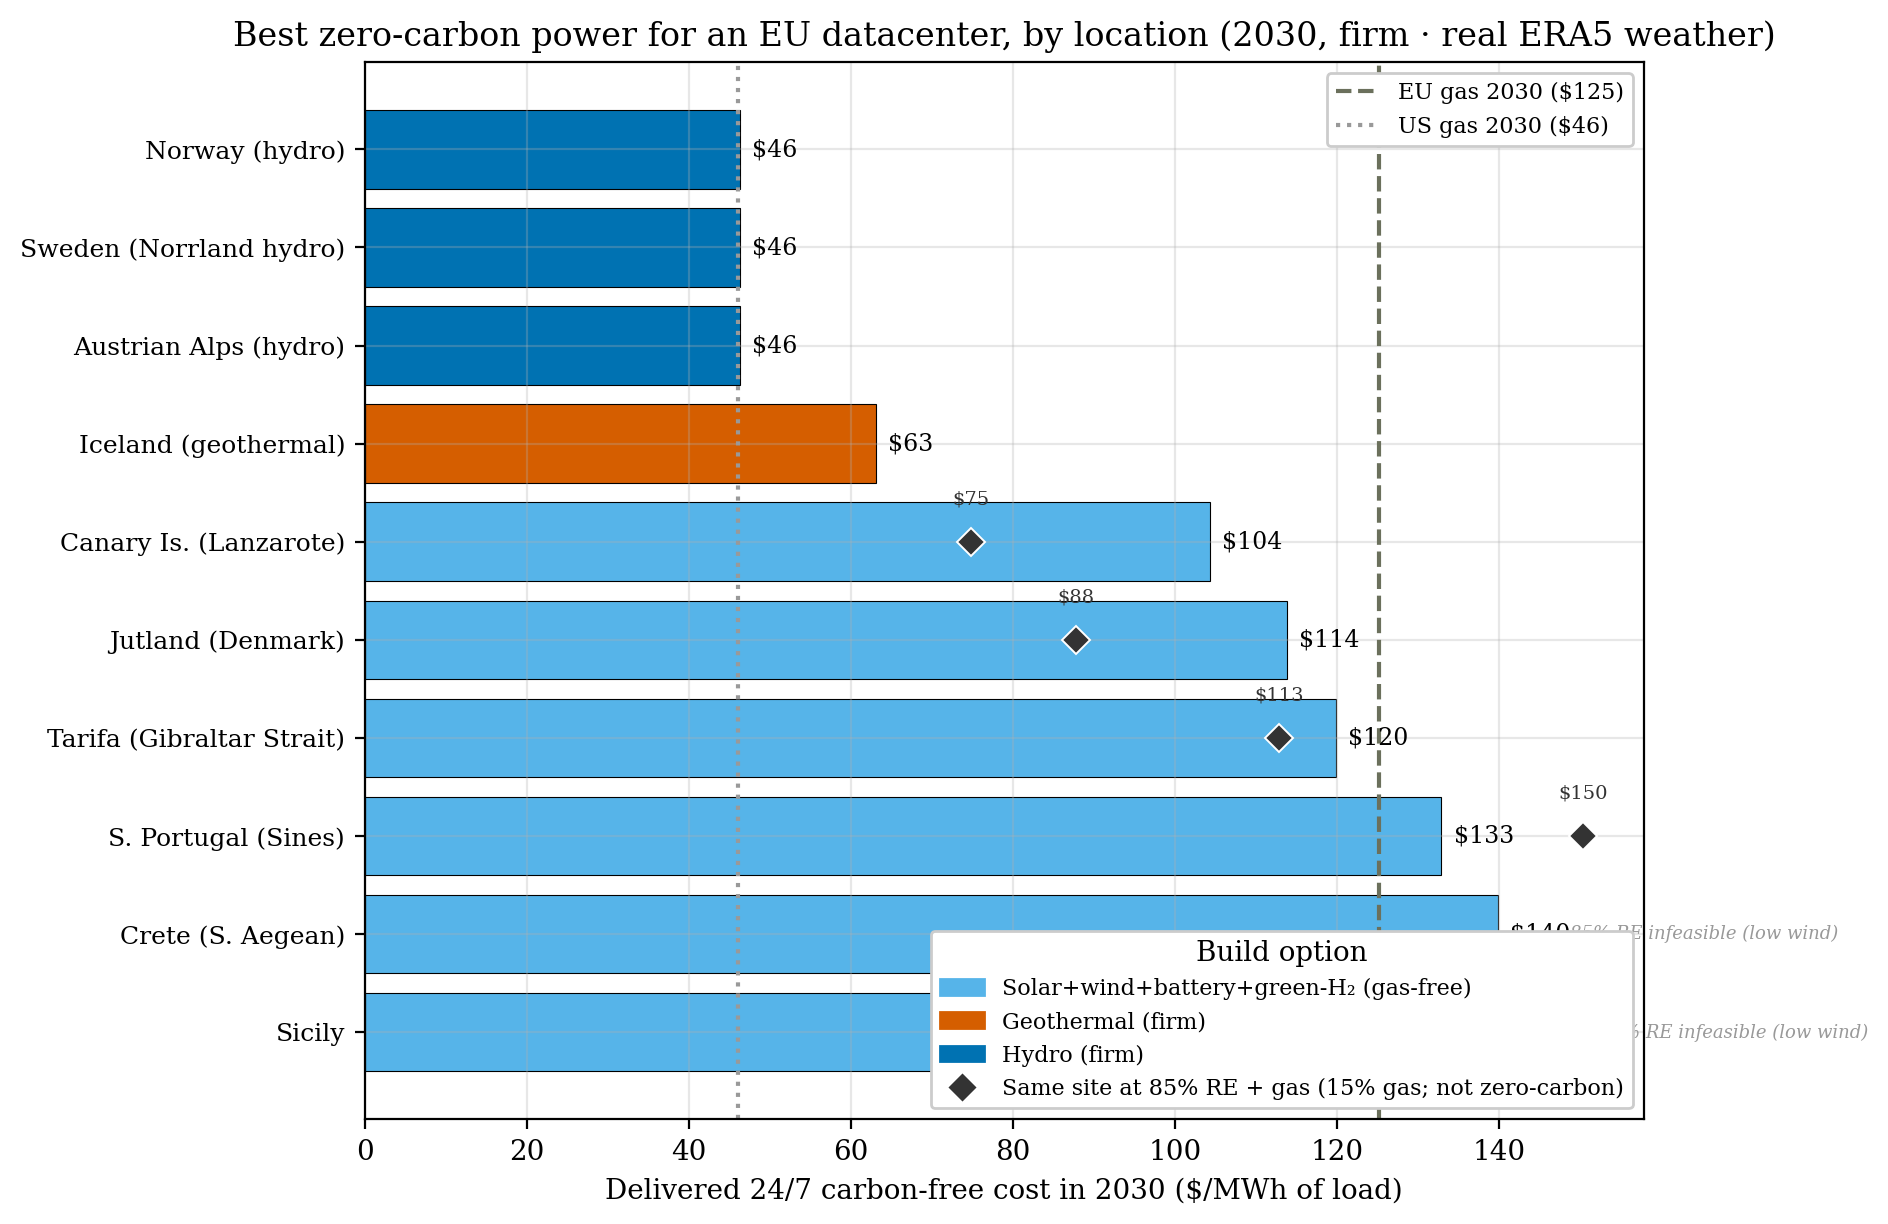
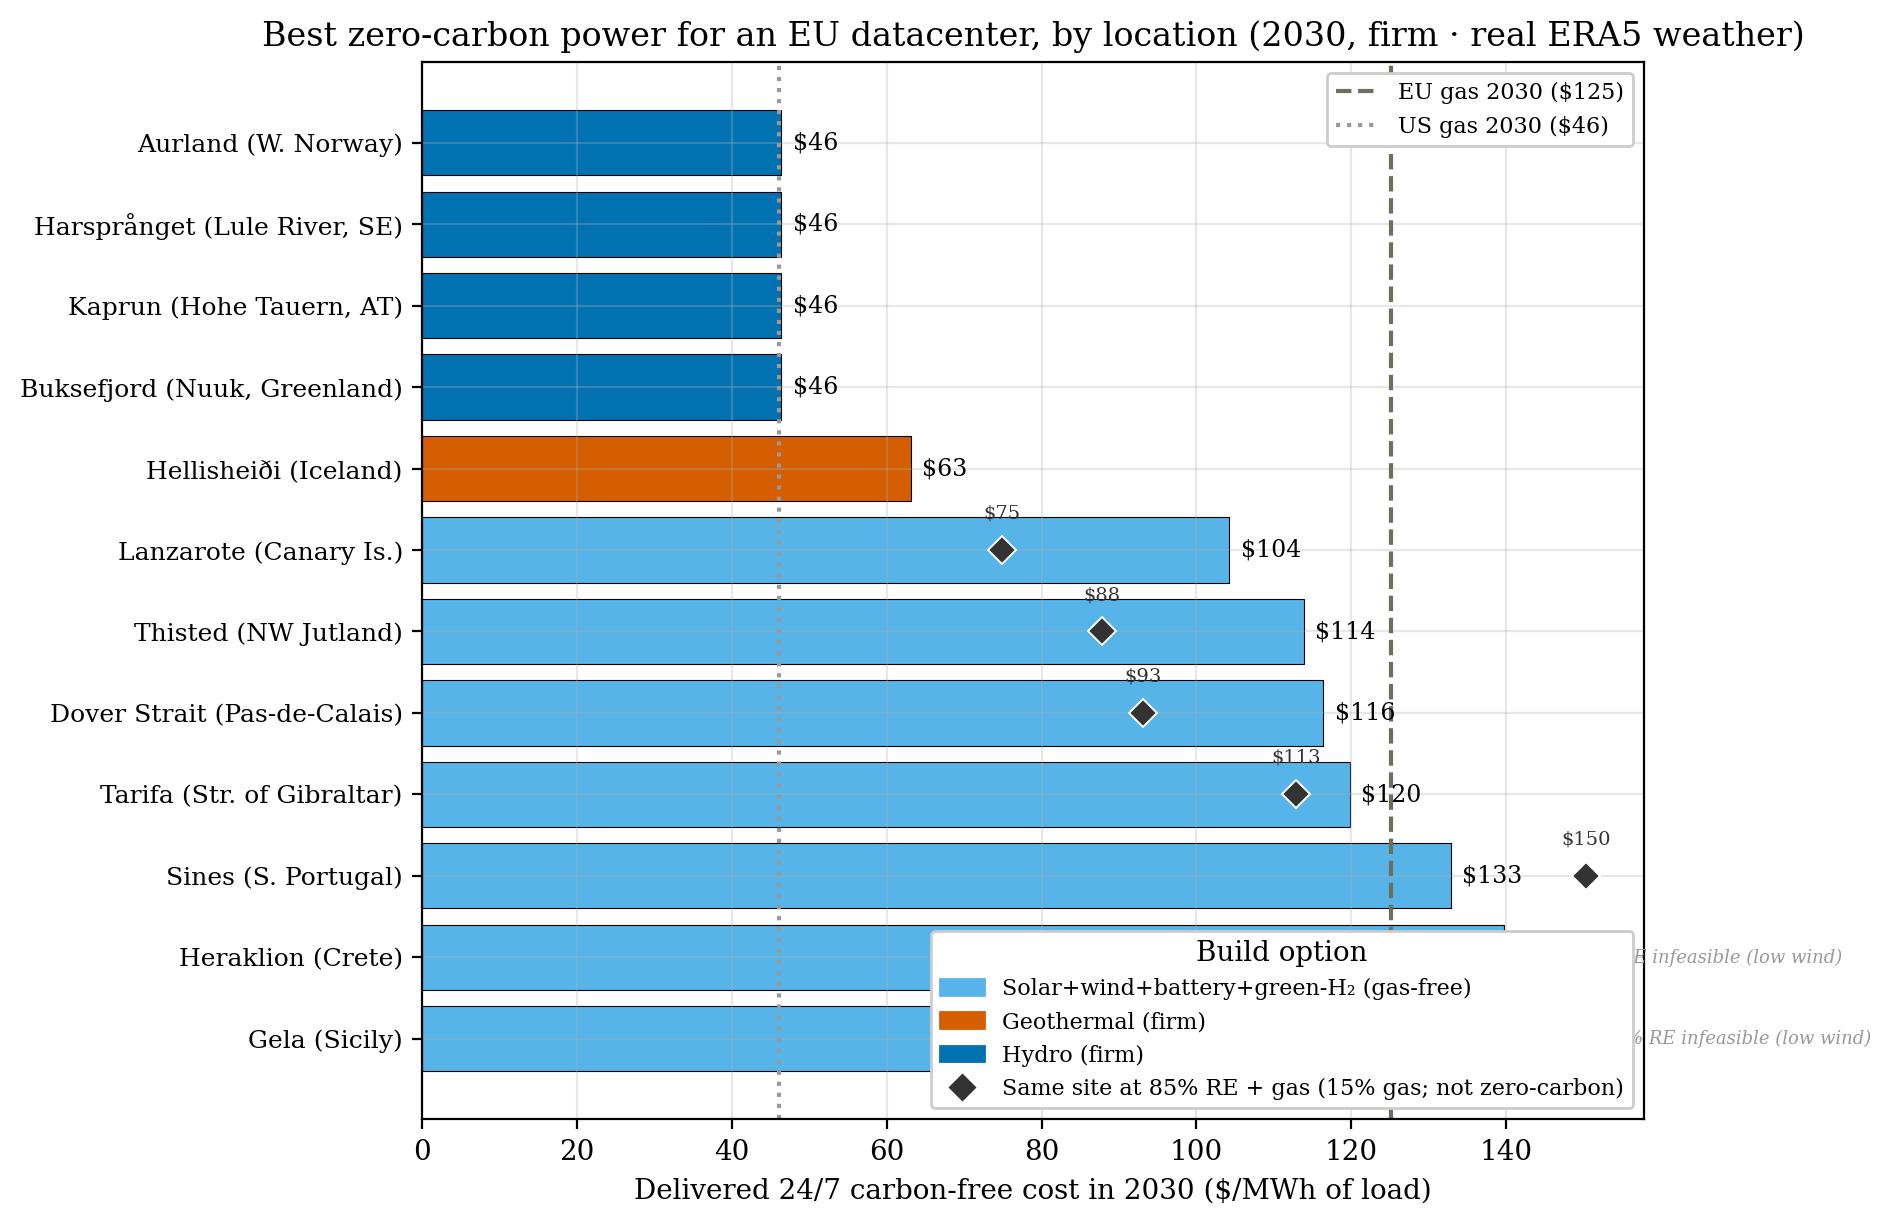
EU siting: concrete named points + Greenland (hydro) + English Channel (Dover)
Per review:
- Replace country-centroid labels with CONCRETE named sites: Hellisheiði (Iceland
  geothermal), Aurland/Sognefjord (Norway hydro), Harsprånget on the Lule River
  (Sweden's largest hydro), Kaprun/Hohe Tauern (Austria hydro).
- Greenland: researched — it is NOT a high-enthalpy geothermal system like Iceland
  (stable craton; only marginal low-T prospects, e.g. Tunu ~80-130C). Its standout clean
  resource is hydro (~800,000 GWh/yr potential), so it enters as a hydro point
  (Buksefjord, the existing plant near Nuuk). $46/MWh firm clean.
- Add English Channel sun+wind site: Dover Strait (Pas-de-Calais), real ERA5 — strong
  Channel wind complements moderate solar: $116 zero-carbon / $93 at 85% RE+gas.
- Extend the map west to ~-54°E to include Greenland; widen the figure.

12 concrete sites. Regenerated output/eu_siting_results.json, figs, docs/index.html, README.

diff --git a/tools/build_eu_siting.py b/tools/build_eu_siting.py
@@ -52,29 +52,36 @@ ERA5_YEARS = list(range(2018, 2025))   # 7 ERA5 years for the RE candidates
 
 # label, slug, resource ∈ {"re","geothermal","hydro"}, illustrative GHI (kWh/m²/day),
 # wind (m/s), lat, lon, baseload-CF (geothermal/hydro only), note.
-# All in the EU cost region (EU tech/battery WACC). Coordinates are a representative point.
+# CONCRETE named points (a real plant/site, not a country centroid). All priced in the EU
+# cost region (EU tech/battery WACC). RE sites are scored on REAL ERA5 at the grid cell of
+# these coordinates; firm geothermal/hydro use the resource LCOE (weather-independent).
 CANDIDATES = [
-    # ── Sun + wind (gas-free RE + H₂) ────────────────────────────────────────────
-    ("Canary Is. (Lanzarote)", "canary_lanzarote", "re", 5.8, 8.0, 29.0, -13.6, None,
+    # ── Sun + wind (gas-free RE + H₂; real ERA5) ─────────────────────────────────
+    ("Lanzarote (Canary Is.)", "canary_lanzarote", "re", 5.8, 8.0, 29.0, -13.6, None,
      "subtropical sun + steady NE trade winds — the standout sun-and-wind combo"),
-    ("Tarifa (Gibraltar Strait)", "tarifa", "re", 5.2, 8.5, 36.0, -5.6, None,
+    ("Tarifa (Str. of Gibraltar)", "tarifa", "re", 5.2, 8.5, 36.0, -5.6, None,
      "strongest mainland-EU wind (Levante/Poniente) + strong sun"),
-    ("Crete (S. Aegean)", "crete", "re", 5.2, 6.8, 35.3, 25.1, None,
+    ("Dover Strait (Pas-de-Calais)", "dover_strait", "re", 2.9, 8.2, 50.95, 1.45, None,
+     "English Channel: strong, steady wind to complement S-England/N-France solar"),
+    ("Heraklion (Crete)", "crete", "re", 5.2, 6.8, 35.3, 25.1, None,
      "high sun + Aegean meltemi wind"),
-    ("Sicily", "sicily", "re", 5.0, 5.5, 37.3, 14.1, None, "high Mediterranean sun"),
-    ("S. Portugal (Sines)", "portugal_sines", "re", 5.0, 6.8, 37.9, -8.8, None,
+    ("Gela (Sicily)", "sicily", "re", 5.0, 5.5, 37.3, 14.1, None, "high Mediterranean sun"),
+    ("Sines (S. Portugal)", "portugal_sines", "re", 5.0, 6.8, 37.9, -8.8, None,
      "Atlantic sun + coastal wind"),
-    ("Jutland (Denmark)", "jutland", "re", 2.8, 9.0, 56.5, 8.2, None,
+    ("Thisted (NW Jutland)", "jutland", "re", 2.8, 9.0, 56.5, 8.2, None,
      "North Sea wind, weak sun — wind-dominated"),
-    # ── Firm zero-carbon baseload ────────────────────────────────────────────────
-    ("Iceland (geothermal)", "iceland", "geothermal", 2.2, 8.0, 64.1, -21.9, 0.88,
-     "firm high-enthalpy geothermal — runs 24/7, no overbuild needed"),
-    ("Norway (hydro)", "norway_hydro", "hydro", 2.5, 6.0, 61.0, 7.0, 0.55,
-     "abundant reservoir hydro — cheap firm dispatchable clean power"),
-    ("Sweden (Norrland hydro)", "sweden_hydro", "hydro", 2.4, 6.5, 64.5, 18.0, 0.55,
-     "abundant northern (Norrland) reservoir hydro — ~40% of Swedish generation"),
-    ("Austrian Alps (hydro)", "austria_alps", "hydro", 3.2, 4.5, 47.3, 13.2, 0.55,
-     "Alpine reservoir/run-of-river hydro"),
+    # ── Firm zero-carbon baseload (concrete plants/sites) ────────────────────────
+    ("Hellisheiði (Iceland)", "iceland", "geothermal", 2.2, 8.0, 64.04, -21.40, 0.88,
+     "Hellisheiði geothermal station — firm high-enthalpy, runs 24/7, no overbuild"),
+    ("Aurland (W. Norway)", "norway_hydro", "hydro", 2.5, 6.0, 60.9, 7.19, 0.55,
+     "Sognefjord reservoir hydro — cheap firm dispatchable clean power"),
+    ("Harsprånget (Lule River, SE)", "sweden_hydro", "hydro", 2.4, 6.5, 66.03, 19.73, 0.55,
+     "Sweden's largest hydro plant (Norrland) — abundant firm reservoir hydro"),
+    ("Kaprun (Hohe Tauern, AT)", "austria_alps", "hydro", 3.2, 4.5, 47.27, 12.76, 0.55,
+     "Alpine reservoir/pumped hydro"),
+    ("Buksefjord (Nuuk, Greenland)", "greenland", "hydro", 2.0, 5.5, 64.07, -50.68, 0.55,
+     "Greenland is hydro country (~800,000 GWh/yr potential), NOT high-enthalpy "
+     "geothermal like Iceland — only marginal low-T prospects (e.g. Tunu)"),
 ]
 
 COL = {"re": "#56B4E9", "geothermal": "#D55E00", "hydro": "#0072B2"}
@@ -216,13 +223,13 @@ def build_map(results, mi):
     cmap = plt.get_cmap("RdYlGn_r")
     norm = plt.Normalize(vmin, vmax)
     marker = {"re": "o", "geothermal": "^", "hydro": "s"}
-    extent = [-25, 30, 28, 69]   # Iceland → E. Mediterranean (north headroom for Nordic sites)
+    extent = [-54, 30, 28, 70]   # SW Greenland → E. Mediterranean (incl. Nuuk at −50.7°)
 
     try:
         import cartopy.crs as ccrs
         import cartopy.feature as cfeature
         proj = ccrs.PlateCarree()
-        fig = plt.figure(figsize=(9.5, 8.5))
+        fig = plt.figure(figsize=(13, 7.5))
         ax = plt.axes(projection=proj)
         ax.set_extent(extent, crs=proj)
         ax.add_feature(cfeature.OCEAN, facecolor="#EAF2F8")
@@ -233,7 +240,7 @@ def build_map(results, mi):
         have_map = True
     except Exception as e:   # noqa: BLE001  (cartopy/NE data absent → plain scatter)
         print(f"  [map] cartopy unavailable ({type(e).__name__}); plain lon/lat scatter.")
-        fig, ax = plt.subplots(figsize=(9.5, 8.5))
+        fig, ax = plt.subplots(figsize=(13, 7.5))
         ax.set_xlim(extent[0], extent[1]); ax.set_ylim(extent[2], extent[3])
         import math as _m
         ax.set_aspect(1.0 / _m.cos(_m.radians(48)))   # latitude aspect correction

diff --git a/README.md b/README.md
@@ -247,7 +247,9 @@ For low-value/spot compute, shedding the most expensive hours helps a lot: in th
 
 `tools/build_eu_siting.py` (`make eu-siting`) ranks candidate EU locations by the **cheapest 24/7 carbon-free delivered cost**, letting each site use its best clean resource: sun+wind sites build the gas-free solar+wind+battery+green-H₂ system (on **real ERA5** weather), while geothermal/hydro sites run on firm zero-carbon baseload (`--firming geothermal|hydro`). It writes a ranked bar chart (`figs/eu_siting.png`) and a **map** (`figs/eu_siting_map.png`, cartopy; falls back to a plain scatter if cartopy is absent).
 
-The candidates are chosen as *promising* clean-power sites (not typical markets). Headline (2030, delivered $/MWh): **firm clean baseload wins decisively** — Nordic/Alpine **hydro ≈ $46** (Norway, Sweden, the Alps) and Iceland **geothermal ≈ $63** beat the best build-it-yourself sun+wind sites and crush gas (EU ~$125). Among sun+wind sites the **Canary Islands (Lanzarote, ≈$104)** lead — steady NE trade winds (wind CF ≈0.42) plus strong sun — followed by windy **Jutland (≈$114)**; the calmer Mediterranean sun sites (Sicily/Crete ≈$140) trail. For the sun+wind sites the chart/table also show the cheaper **85% RE + gas** build (a diamond on each bar) — not zero-carbon, but the gap to the full-clean bar is the premium for eliminating the last ~15% of emissions.
+The candidates are **concrete named points** (a real plant/site, not a country centroid), chosen as *promising* clean-power locations. Headline (2030, delivered $/MWh): **firm clean baseload wins decisively** — reservoir **hydro ≈ $46** (Aurland in W. Norway, Harsprånget on Sweden's Lule River, Kaprun in the Austrian Alps, Buksefjord near Nuuk in Greenland) and Iceland **geothermal ≈ $63** (Hellisheiði) beat the best build-it-yourself sun+wind sites and crush gas (EU ~$125). Among sun+wind sites **Lanzarote (Canary Is., ≈$104)** leads — steady NE trade winds (wind CF ≈0.42) plus strong sun — then windy **Thisted (NW Jutland, ≈$114)** and **Dover Strait (≈$116)**, where the English Channel's strong wind complements moderate solar; the calmer Mediterranean sun sites (Gela/Heraklion ≈$140) trail. For the sun+wind sites the chart/table also show the cheaper **85% RE + gas** build (a diamond on each bar) — not zero-carbon, but the gap to the full-clean bar is the premium for eliminating the last ~15% of emissions.
+
+(On **Greenland**: it is *hydro* country — ~800,000 GWh/yr gross potential — not a high-enthalpy geothermal system like Iceland; it has only marginal low-temperature geothermal prospects, e.g. Tunu in the east, so it enters as a hydro point.)
 
 The geothermal/hydro costs are **sourced to IRENA's *Renewable Power Generation Costs in 2023*** (installed cost $4,589/kW geothermal, $2,806/kW hydro) computed through the model's own per-technology WACC, landing just below IRENA's published LCOEs ($71 geothermal, $57 hydro — the gap is the lower cost of capital). *Caveats:* hydro uses CF 0.55 (a real reservoir is energy-limited, so it can't run flat-out as firm baseload); and each sun+wind number reflects the exact ERA5 grid cell at the chosen lat/lon, so very localized wind regimes (e.g. the Tarifa jet) can be under-captured — treat the ranking as directional and re-fetch a precise point to site-tune.
 